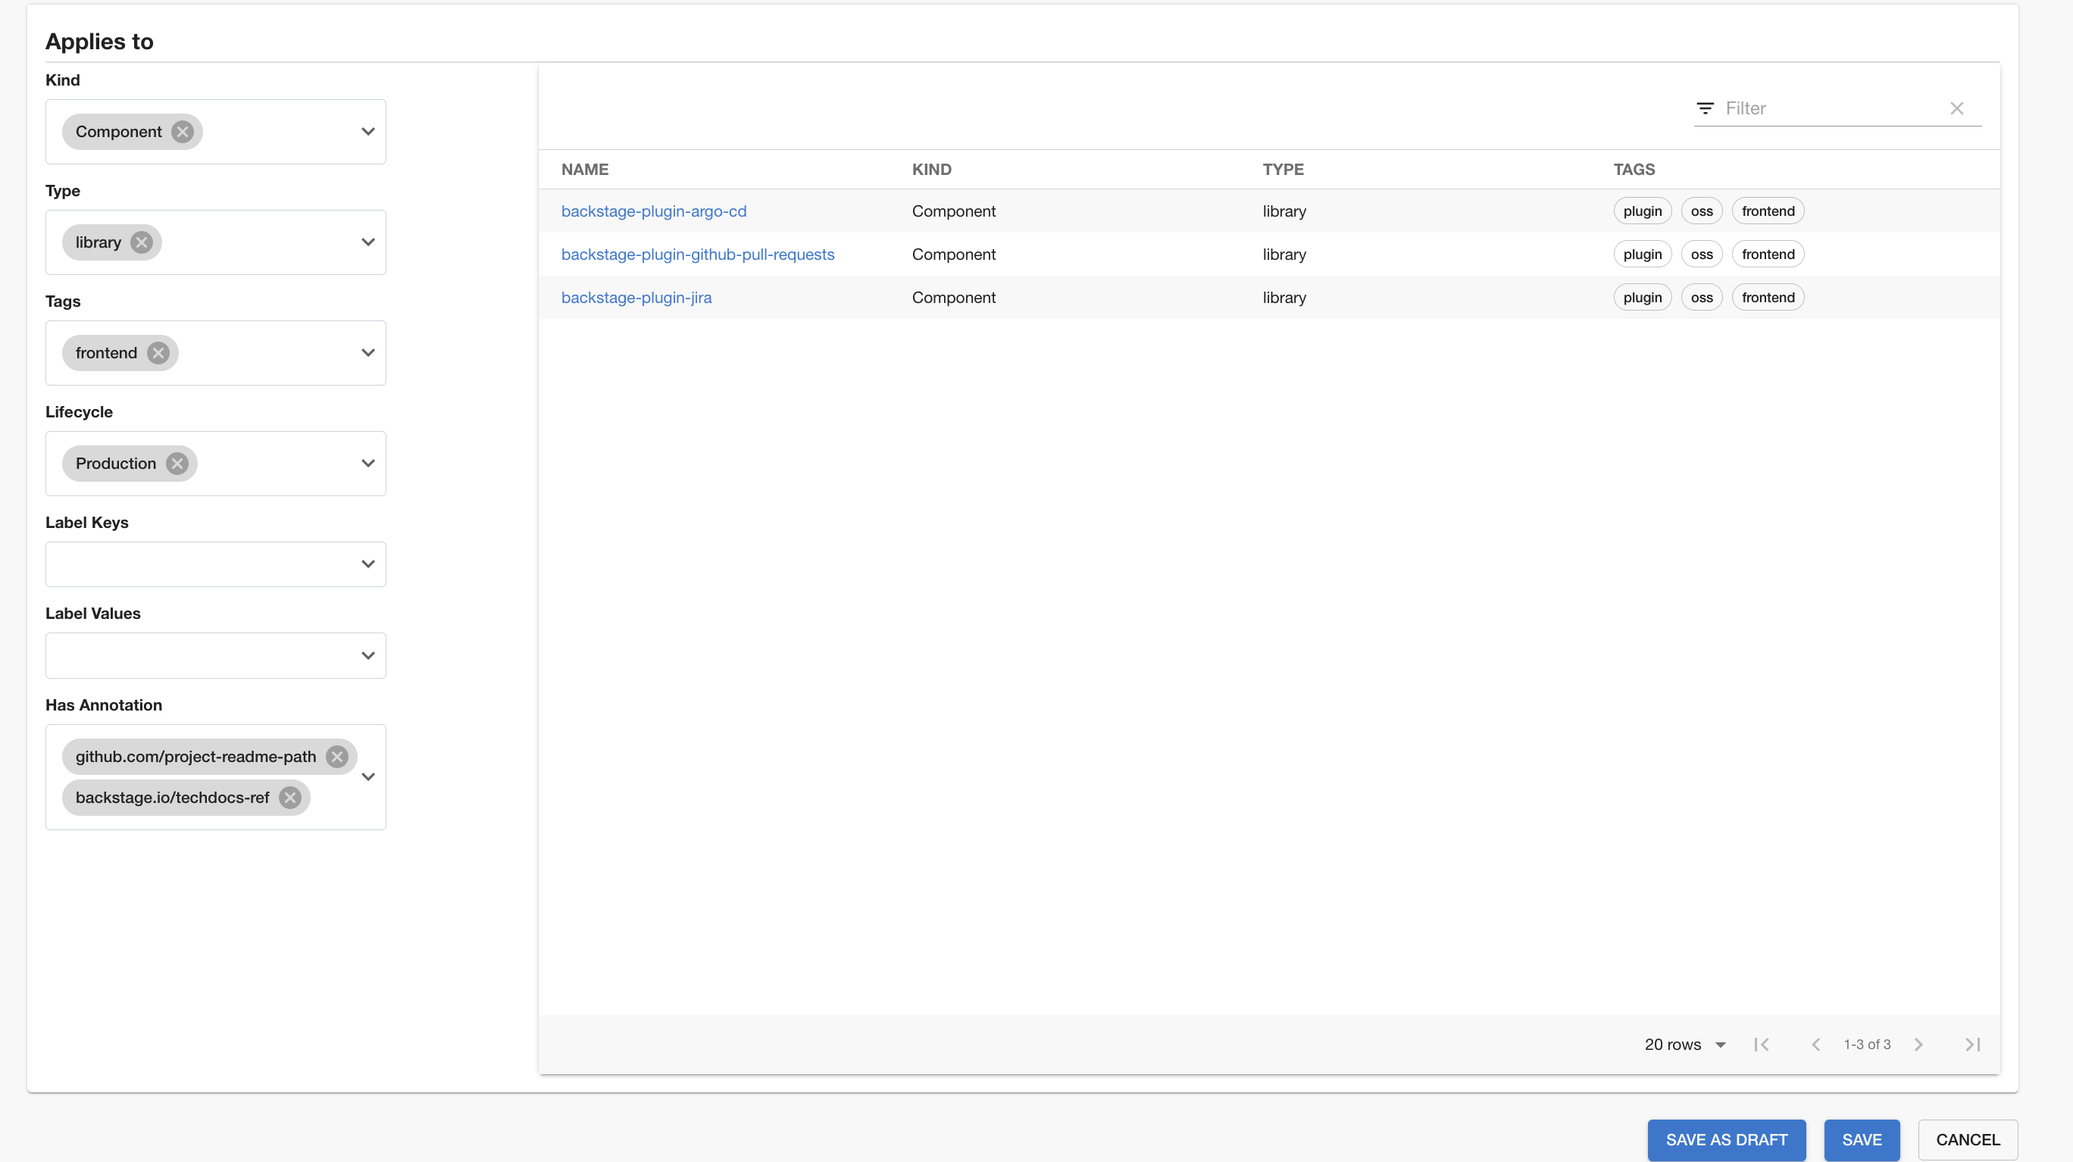
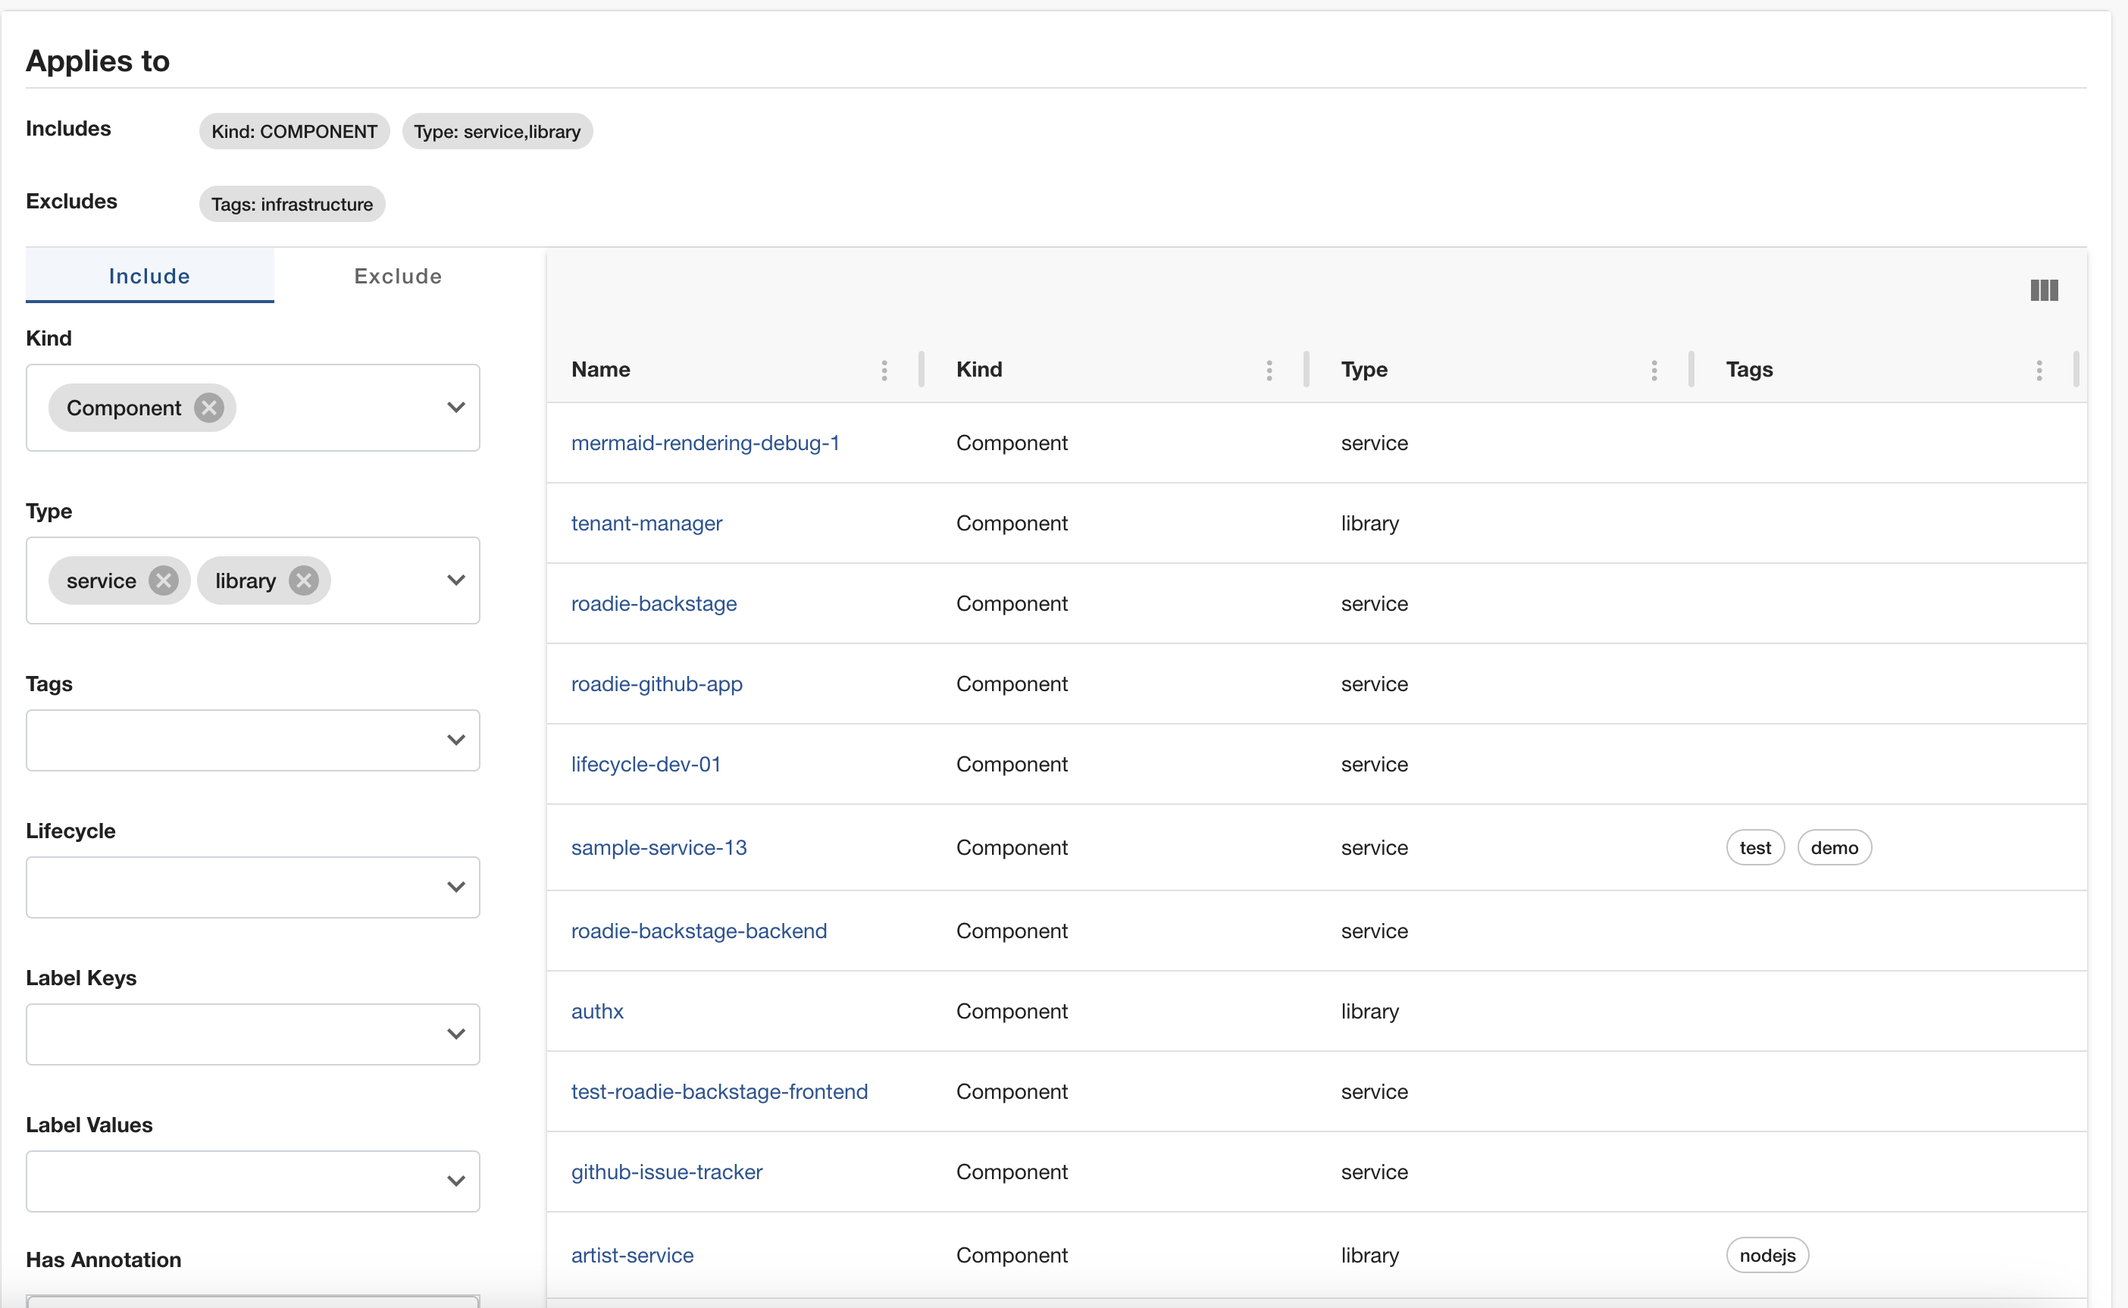
update tech-insights docs with exclusions

diff --git a/content/docs/tech-insights/define-custom-data-sources/index.md b/content/docs/tech-insights/define-custom-data-sources/index.md
@@ -30,7 +30,7 @@ The supported response types for HTTP data sources are JSON structures.
 
 ### GitHub API
 
-_GitHub API_ data source uses the GitHub REST API with the installed GitHub app credentials to fetch any data not already available from the built-in GitHub Data Sources in Roadie. 
+_GitHub API_ data source uses the GitHub REST API with the installed GitHub app credentials to fetch any data not already available from the built-in GitHub Data Sources in Roadie.
 
 ### Component repository file
 
@@ -40,7 +40,6 @@ Component repository file provider reaches out to the source location of an enti
 
 Entity definition returns the information on the entity as it is in the catalog. This data source provider can be used to retrieve information that could be for example stored directly in the entity manifest itself, like annotations or links.
 
-
 ### Component repository directory
 
 Component repository directory allows you to retrieve a list of files that are located in the directory of the entity location. The returned data type from this provider is always a set of filenames.
@@ -48,7 +47,6 @@ Component repository directory allows you to retrieve a list of files that are l
 ### Spreadsheet
 
 The spreadsheet data provider allows you to create facts from columnar data sources available on the internet, like Google Sheets. The provider requires an integration configured in the Roadie application to be able to access the source data. See configuration options for specific integration targets below.
-
 
 <details>
 
@@ -59,18 +57,18 @@ The spreadsheet data provider allows you to create facts from columnar data sour
 Google Sheets data source uses a secret key `GOOGLE_API_SA_KEY` to establish connectivity to Google APIs. You can configure this by generating a key.json against a Google Service Account and setting the contents of that file as a secret to Roadie application.
 
 To use the Google Sheets API, you need a Google Cloud Platform Project with the API enabled, as well as authorization credentials. To get those, follow the steps below:
+
 1. First open the Google Cloud Console in https://console.cloud.google.com, and create a new project.
 2. Enable APIs and Services for your account
-    * At the top left, click Menu ☰ > APIs and Services > Enabled APIs and Services. Then click on the + Enable APIs and Services button.
+   - At the top left, click Menu ☰ > APIs and Services > Enabled APIs and Services. Then click on the + Enable APIs and Services button.
 3. Create a Service Account
-    * On the Credentials tab click the Create Credentials button at the top. Select Service Account in the drop-down menu.
-    * Take note of the email address that is assigned to this service account
+   - On the Credentials tab click the Create Credentials button at the top. Select Service Account in the drop-down menu.
+   - Take note of the email address that is assigned to this service account
 4. Create API keys for the service account
 5. Navigate to the Keys tab and click on the Add Key button. Select the Create New Key option, and then the key type of JSON.
 6. Navigate to your Roadie instance Administration > Settings > Secrets section and paste the contents of the JSON file as a value to `GOOGLE_API_SA_KEY` secret.
 
 To be able to expose a specific Google Sheet to your generated Service Account keys, you can click the Share button on a specific Sheet and paste in the email address from step 3 above.
-
 
 </details>
 
@@ -78,6 +76,7 @@ To be able to expose a specific Google Sheet to your generated Service Account k
 
 1 - You must specify a type for that new Data Source.
 2 - Set additional configuration options depending on the type of the data provider
+
 1. For _HTTP_ type select a proxy from the provided dropdown and append a path extension to configure the URL the HTTP call should be made. The path extension should be input without the preceding slash.
    1. _proxy:_ Select a proxy from the provided dropdown
    2. _path extension:_ The path to append to the proxy URL to which the HTTP call should be made. There is basic support for templating entity values into the path. E.g. `etc/{{ metadata.name }}` would insert the name of the entity. The path extension should be input without the preceding slash.
@@ -102,7 +101,7 @@ Now that you have data, let’s define what Facts interest you. You’ll do this
 
 5 - Choose a parser to extract a Fact from the data obtained before. For the type “Component repository file” this can be either JSON or Regex parser type, while for “HTTP” data provider type, only JSON is supported. Retrieved YAML files are handled as JSON. Repository directory configuration returns a single value of type Set and the only configurable options are the name and description of the field. For spreadsheet data provider types, all columnar configuration options are used.
 
-JSON type of parser uses  [JSONata query syntax](https://jsonata.org/) to extract data from JSON. Regex type uses [ECMAScript syntax](https://developer.mozilla.org/en-US/docs/Web/JavaScript/Guide/Regular_Expressions) to extract data from text.
+JSON type of parser uses [JSONata query syntax](https://jsonata.org/) to extract data from JSON. Regex type uses [ECMAScript syntax](https://developer.mozilla.org/en-US/docs/Web/JavaScript/Guide/Regular_Expressions) to extract data from text.
 
 6 - If you’re using the JSON parser, specify a path from the root of the object. For example _“version”,_ or “_scripts.test”_. If you’re using the Regex parser, specify a valid expression with a capture group if extracting values. Please note the Regex does not need slashes at the start or the end.
 
@@ -122,7 +121,6 @@ On the other hand, if you were to have the following result:
 and wanted to obtain total pages number, we could use the following syntax
 ![JSONata parser](./fact-parser-jsonata.png)
 
-
 7 - Select the type of the parsed value.
 Here you can select among integer, string, boolean, set and datetime types.
 
@@ -134,10 +132,14 @@ After successfully adding a fact you will be able to select kind and type of ser
 
 ## Defining targeted entities
 
+You can define filters to target which entities should this data source consider to collect data from.
+In the Applies to section you can select which entites will be included in this data source and which entities will be excluded.
+
 ![Data Source Entity Filter](./data-source-entity-filter.png)
 
-You should be able to see the created Data Source in the overview screen. If you decide to create a draft Data Source, you will need to publish it in order for others to see it. This can be achieved using actions menu.
+The above configuration means the data source will collect data for all components with type library and service but does not have the infrastruce tag
 
+You should be able to see the created Data Source in the overview screen. If you decide to create a draft Data Source, you will need to publish it in order for others to see it. This can be achieved using actions menu.
 
 ## Running the data source
 
@@ -158,8 +160,6 @@ Below are few useful recipes that can be helpful when creating custom data sourc
 JSONata is a powerful tool that allows you to do manipulation, arithmetic as well as grouping and other transformations to the returned data. You can see all applicable functions and approaches from the [JSONata documentation site](https://docs.jsonata.org/overview). Sometimes it might be useful to iterate faster by using the [JSONata online editor](https://try.jsonata.org/) to see possible transformations to the returned data.
 
 Below are few commonly used recipes that could be helpful.
-
-
 
 <details>
 <summary><b> Simple HTTP status response example </b></summary>
@@ -202,7 +202,6 @@ For complex queries you have the default JSONata functions available. For exampl
 
 </details>
 
-
 <details>
 <summary><b> Mapping entities and using functions</b></summary>
 
@@ -238,16 +237,14 @@ API response:
 
 </details>
 
-
 ### Proxy usage and the Broker
 
-All Roadie HTTP Tech Insights data source are using Roadie Proxy to connect to third party services. You can configure different proxies [using these instructions](/docs/custom-plugins/connectivity/proxy/). Additionally, if you want to connect to services or endpoints within your own infrastructure, you can also use the Broker connectivity to reach your secure services. To do this, you need to first [set up the broker connection](docs/integrations/broker/). 
+All Roadie HTTP Tech Insights data source are using Roadie Proxy to connect to third party services. You can configure different proxies [using these instructions](/docs/custom-plugins/connectivity/proxy/). Additionally, if you want to connect to services or endpoints within your own infrastructure, you can also use the Broker connectivity to reach your secure services. To do this, you need to first [set up the broker connection](docs/integrations/broker/).
 
 Since the endpoints tech insights potentially connects to via the broker are unknown to Roadie beforehand, the user needs to construct their own `accept.json` Broker configuration file to connect to internal endpoints. An example configuration file connecting to a self-hosted metrics server mocked out below.
 
 <details>
 <summary><b> A dummy example accept.json configuration </b></summary>
-
 
 ```JSON
 {
@@ -279,19 +276,19 @@ Where the secret `MY_METRICS_SERVICE_AUTH_TOKEN` is defined by an environment va
 
 You can set up the broker connection by using `/broker` proxy configuration and defining an endpoint path like `my-broker-token/api/get-my-metrics`.
 
-With this kind of set up the Tech Insights data source engine uses a broker connection identified by `my-broker-token` and calls an endpoint `/api/get-my-metrics` via the established broker connection. This configuration matches the mock `accept.json` file seen above, meaning that the Tech Insights data source calls an internal service on internal network hosted under address `http://metrics-server.internal.our-company.com/api/get-my-metrics` and returns response from there. This response can then be mapped to more streamlined and easily usable fact data using the JSONata extractor functionality.  
-
+With this kind of set up the Tech Insights data source engine uses a broker connection identified by `my-broker-token` and calls an endpoint `/api/get-my-metrics` via the established broker connection. This configuration matches the mock `accept.json` file seen above, meaning that the Tech Insights data source calls an internal service on internal network hosted under address `http://metrics-server.internal.our-company.com/api/get-my-metrics` and returns response from there. This response can then be mapped to more streamlined and easily usable fact data using the JSONata extractor functionality.
 
 ### Pushing facts to a Data Source
 
-Roadie also provides and API which can be used to push data to populate Data Source facts. To be able to use this API, you need a Roadie API token and a defined Data Source which provides the *schema* of the structure of the data to be stored. You can contact Roadie for an API token. A Data Source can be either a built-in Data Source or one of the custom-built ones, all of them have a schema defined by default.
+Roadie also provides and API which can be used to push data to populate Data Source facts. To be able to use this API, you need a Roadie API token and a defined Data Source which provides the _schema_ of the structure of the data to be stored. You can contact Roadie for an API token. A Data Source can be either a built-in Data Source or one of the custom-built ones, all of them have a schema defined by default.
 
 Each fact constructed by Roadie or pushed to Roadie needs to contain at least 4 properties of information. These properties are:
-* Data Source identifier - The id of the container, and the schema provided by the container that these facts belong to
-* Timestamp - The temporal value when these facts were retrieved or produced
-* Entity - A reference to an entity in Roadie system that these facts are tied to
-* Facts - A collection of the actual fact values that are stored
 
-A common example to prefer a push based model to construct and provide facts is to use the internal CI pipeline to collect, construct or provide fact values that need to be stored against Roadie entities. Some such facts could be items like "Code Coverage", "CodeQL Analysis Result" or "Build Duration". 
+- Data Source identifier - The id of the container, and the schema provided by the container that these facts belong to
+- Timestamp - The temporal value when these facts were retrieved or produced
+- Entity - A reference to an entity in Roadie system that these facts are tied to
+- Facts - A collection of the actual fact values that are stored
+
+A common example to prefer a push based model to construct and provide facts is to use the internal CI pipeline to collect, construct or provide fact values that need to be stored against Roadie entities. Some such facts could be items like "Code Coverage", "CodeQL Analysis Result" or "Build Duration".
 
 The API endpoint and documentation on expected parameters and request body shapes can be found from the Roadie API documentation.

diff --git a/content/docs/tech-insights/add-check/index.md b/content/docs/tech-insights/add-check/index.md
@@ -6,19 +6,53 @@ description: Add new check.
 
 After navigating to Tech Insights→ Checks page and clicking ‘Add check’ button, you’ll be asked to describe your Check as below:
 
-![Add check steps](./create-check-steps.png)
+### About
 
-1 - After filling in Name and Description, select the Data Source that you want to use for this Check.
+![About section](./create-check-about.png)
 
-2 - Select the Fact that you want to use. Note that the list of Facts come from the selected Data Source.
+- Give a unique name to your check
+- Give a proper description about this check. This input accepts markdown
 
-3 - Select a Fact operator and specify a target value. The underlying implementation (`json-rules-engine`, see below) supports a limited [number of built-in operators](https://github.com/CacheControl/json-rules-engine/blob/master/docs/rules.md#operators) that can be used in conditions.
+### Conditions
 
-Checks are constructed using[json-rules-engine](https://github.com/CacheControl/json-rules-engine/blob/master/docs/rules.md#conditions) so you will make sure facts, operators and value align to those rules .
+![Conditions section](./create-check-conditions.png)
 
-4 - You can try out your Check with the Dry Run button.
+- Select your data source from the `Data Source` select field.
+- Select your `Fact` from the `Fact` select field.
+- Choose an operator
+- Fill in the value for the selected operator
 
-![Check dry run](./dry-run-check.png)
+You can add multiple conditions to your check by clicking the `+ ADD CONDITION` button.
+
+![Multiple Conditions](./create-check-multiple-conditions.png)
+
+- Select the logic between your conditions from the radio buttons
+- Fill in your check the same way as in the previous step
+
+You can test out your check by clicking the `Dry Run` button
+
+![Dry Run](./create-check-dry-run.png)
+
+Select an entity that you want to test your check against.
+
+![Try Check Result](./create-check-try-check.png)
+
+### Fix Link
+
+You can provide an optional link to some documentation that explains to your users how to make this check pass
+
+![Fix Link section](./create-check-fix-link.png)
+
+### Applies to
+
+You can define filters to target which entities should this check run against
+In the Applies to section you can select which entites will be included in this check and which entities will be excluded.
+
+![Applies To section](./create-check-entity-filter.png)
+
+The above configuration means the Check will run against components with type library that does not have the tag infrastructure
+
+### Save
 
 If you are still uncertain if you want to publish the check, you can save it as a draft an publish it later.
 

diff --git a/content/docs/tech-insights/add-scorecard/index.md b/content/docs/tech-insights/add-scorecard/index.md
@@ -6,15 +6,43 @@ description: Adding a scorecard.
 
 Once you click the “Add Scorecard” button, you’ll be prompted to fill in the details about the Scorecard, including the Checks you want to include and to which entities to apply it to, as shown below:
 
-![Create Scorecard](./create-scorecard.png)
+### About section
 
-1 - General information about scorecard (Name and Description).
+![About section](./create-scorecard-about.png)
 
-2 - Checks you wish to include in the scorecard. Clicking ‘Add’ button will lead to opening the dialog.
+- Give a unique name to your scorecard
+- Give a proper description about this scorecard. This input accepts markdown
 
-![Add check](./add-check.png)
+### Checks
 
-Within the dialog you select all the checks you want to include. In case you want to add or remove some of the checks later you can do it later ‘Edit’ functionality.
+![Checks](./create-scorecard-add-check.png)
+
+Click the `Add` button to add checks to your scorecard
+
+![Add checks modal](./create-scorecard-add-checks-modal.png)
+
+- Select the checks you would like to add to your scorecard
+- Close the modal once you added all of the checks you would want in your scorecard
+
+![Added checks](create-scorecard-added-checks.png)
+
+### Applies to
+
+You can define filters to target which entities should this scorecard run against
+In the `Applies to` section you can select which entites will be included in this scorecard and which entities will be excluded.
+
+![Applies to section](create-scorecard-applies-to.png)
+
+The above configuration means the scorecard will run against components with type library that does not have the tag infrastructure
+
+### Ownership
+
+![Ownership section](create-scorecard-ownership.png)
+
+- Select the owner of the scorecard
+- (optional) Give an executive sponsor to your scorecard
+
+## Edit
 
 ![Edit Scorecard](./edit-scorecard.png)
 
@@ -24,7 +52,6 @@ Within the dialog you select all the checks you want to include. In case you wan
 
 Once you are happy with the created scorecard, save it and you should be able to see it in overview screen.
 
-Same as for the [Data Source](../data-sources/) [Checks](../checks/), you can save a scorecard as a draft until you are completely happy with it and certaing you want to publish it. 
+Same as for the [Data Source](../data-sources/) [Checks](../checks/), you can save a scorecard as a draft until you are completely happy with it and certaing you want to publish it.
 
 ** Note that publishing a draft scorecard will publish all draft Checks and Data Source it is based on.**
-
